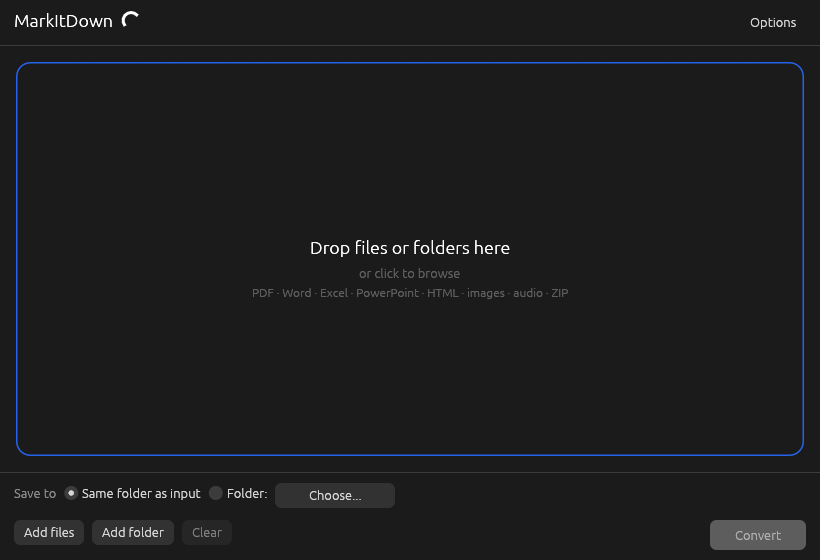
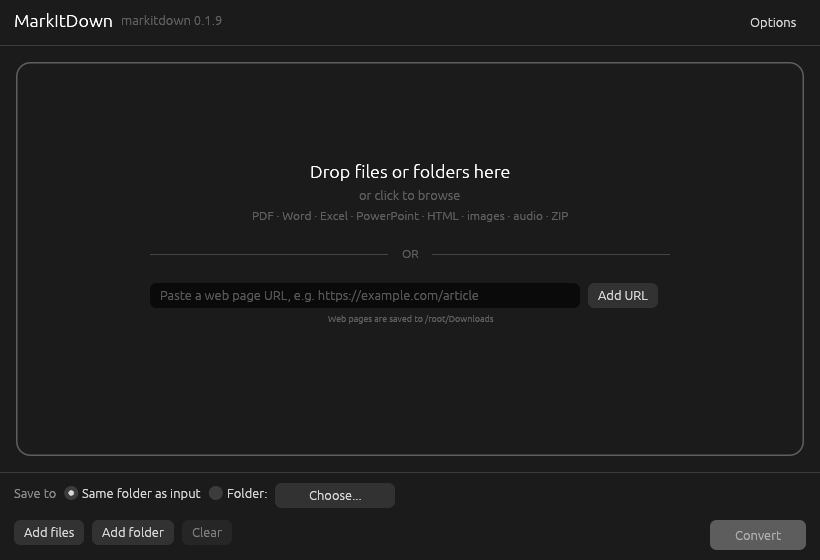
Add web page conversion by URL (1.1.0)
URL field under the drop zone with an OR divider, and at the top of the
list. Web pages are queued like files and saved as 'site - page.md' in
Downloads or the chosen output folder.

Claude-Session: https://claude.ai/code/session_012C1HCMGy58VszD4ZcjDkWS

diff --git a/src/main.rs b/src/main.rs
@@ -80,7 +80,81 @@ enum Status {
 
 struct Item {
     path: PathBuf,
+    /// Set for web pages; `path` is unused then.
+    url: Option<String>,
     status: Status,
+}
+
+impl Item {
+    fn title(&self) -> String {
+        match &self.url {
+            Some(u) => u.clone(),
+            None => self.path.file_name().map(|s| s.to_string_lossy().into_owned()).unwrap_or_default(),
+        }
+    }
+    fn subtitle(&self) -> String {
+        match &self.url {
+            Some(_) => "Web page".into(),
+            None => self.path.parent().map(|p| p.display().to_string()).unwrap_or_default(),
+        }
+    }
+}
+
+/// Accepts "example.com/page" or "https://example.com/page"; returns None if it isn't a web address.
+fn normalize_url(raw: &str) -> Option<String> {
+    let t = raw.trim().trim_matches('"').trim();
+    if t.is_empty() || t.contains(char::is_whitespace) {
+        return None;
+    }
+    let lower = t.to_lowercase();
+    let u = if lower.starts_with("http://") || lower.starts_with("https://") { t.to_string() } else { format!("https://{t}") };
+    let host = u.split("://").nth(1)?.split(['/', '?', '#']).next()?;
+    (host.contains('.') || host.starts_with("localhost")).then_some(u)
+}
+
+/// "https://en.wikipedia.org/wiki/Markdown" -> "en.wikipedia.org - Markdown"
+fn url_stem(url: &str) -> String {
+    let rest = url.split("://").nth(1).unwrap_or(url);
+    let rest = rest.split(['?', '#']).next().unwrap_or(rest);
+    let mut parts = rest.split('/').filter(|p| !p.is_empty());
+    let host = parts.next().unwrap_or("page").trim_start_matches("www.").to_string();
+    let last = parts.last().map(|seg| {
+        let seg = percent_decode(seg);
+        match seg.rsplit_once('.') {
+            Some((stem, ext)) if ext.len() <= 5 && !stem.is_empty() => stem.to_string(),
+            _ => seg,
+        }
+    });
+    let name = match last {
+        Some(l) => format!("{host} - {l}"),
+        None => host,
+    };
+    let clean: String = name.chars().map(|c| if r#"\/:*?"<>|"#.contains(c) || c.is_control() { '_' } else { c }).collect();
+    clean.chars().take(90).collect::<String>().trim().trim_end_matches('.').to_string()
+}
+
+fn percent_decode(s: &str) -> String {
+    let b = s.as_bytes();
+    let mut out = Vec::with_capacity(b.len());
+    let mut i = 0;
+    while i < b.len() {
+        if b[i] == b'%' && i + 2 < b.len() {
+            let hex = |c: u8| (c as char).to_digit(16);
+            if let (Some(h), Some(l)) = (hex(b[i + 1]), hex(b[i + 2])) {
+                out.push((h * 16 + l) as u8);
+                i += 3;
+                continue;
+            }
+        }
+        out.push(if b[i] == b'+' { b' ' } else { b[i] });
+        i += 1;
+    }
+    String::from_utf8_lossy(&out).into_owned()
+}
+
+fn downloads_dir() -> PathBuf {
+    let home = std::env::var_os("USERPROFILE").or_else(|| std::env::var_os("HOME")).map(PathBuf::from).unwrap_or_default();
+    home.join("Downloads")
 }
 
 enum Detect {
@@ -108,6 +182,8 @@ struct App {
     log: Vec<String>,
     show_log: bool,
     auto_setup_tried: bool,
+    url_input: String,
+    url_error: bool,
     ctx: egui::Context,
 }
 
@@ -138,6 +214,8 @@ impl App {
             log: Vec::new(),
             show_log: false,
             auto_setup_tried: false,
+            url_input: String::new(),
+            url_error: false,
             ctx: cc.egui_ctx.clone(),
         };
         // Files passed on the command line (e.g. "Open with" or drag onto the .exe).
@@ -231,7 +309,46 @@ impl App {
 
     fn add_file(&mut self, p: PathBuf) {
         if !self.items.iter().any(|i| i.path == p) {
-            self.items.push(Item { path: p, status: Status::Pending });
+            self.items.push(Item { path: p, url: None, status: Status::Pending });
+        }
+    }
+
+    /// Adds the URL typed in the URL field. Returns false if it isn't a valid web address.
+    fn add_url_input(&mut self) -> bool {
+        let Some(u) = normalize_url(&self.url_input) else {
+            self.url_error = !self.url_input.trim().is_empty();
+            return false;
+        };
+        if !self.items.iter().any(|i| i.url.as_deref() == Some(u.as_str())) {
+            self.items.push(Item { path: PathBuf::new(), url: Some(u), status: Status::Pending });
+        }
+        self.url_input.clear();
+        self.url_error = false;
+        true
+    }
+
+    fn url_field(&mut self, ui: &mut egui::Ui, width: f32) {
+        let busy = self.busy();
+        ui.add_enabled_ui(!busy, |ui| {
+            ui.horizontal(|ui| {
+                let r = ui.add(egui::TextEdit::singleline(&mut self.url_input).hint_text("Paste a web page URL, e.g. https://example.com/article").desired_width(width));
+                if r.changed() {
+                    self.url_error = false;
+                }
+                let enter = r.lost_focus() && ui.input(|i| i.key_pressed(egui::Key::Enter));
+                if ui.button("Add URL").clicked() || enter {
+                    self.add_url_input();
+                }
+            });
+        });
+        let target = match (&self.s.custom_output, &self.s.output_dir) {
+            (true, Some(d)) => d.display().to_string(),
+            _ => downloads_dir().display().to_string(),
+        };
+        if self.url_error {
+            ui.label(RichText::new("That doesn't look like a web address.").small().color(ERR));
+        } else {
+            ui.label(RichText::new(format!("Web pages are saved to {}", elide(&target, 60))).small().weak()).on_hover_text(target);
         }
     }
 
@@ -239,12 +356,18 @@ impl App {
         self.active > 0
     }
 
-    fn output_for(&self, input: &Path, reserved: &mut HashSet<PathBuf>) -> PathBuf {
-        let dir = match (&self.s.custom_output, &self.s.output_dir) {
-            (true, Some(d)) => d.clone(),
+    fn output_for(&self, item: &Item, reserved: &mut HashSet<PathBuf>) -> PathBuf {
+        let input = item.path.as_path();
+        let dir = match (&self.s.custom_output, &self.s.output_dir, &item.url) {
+            (true, Some(d), _) => d.clone(),
+            (_, _, Some(_)) => downloads_dir(),
             _ => input.parent().map(Path::to_path_buf).unwrap_or_default(),
         };
-        let stem = input.file_stem().map(|s| s.to_string_lossy().into_owned()).unwrap_or_else(|| "output".into());
+        let stem = match &item.url {
+            Some(u) => url_stem(u),
+            None => input.file_stem().map(|s| s.to_string_lossy().into_owned()).unwrap_or_else(|| "output".into()),
+        };
+        let stem = if stem.is_empty() { "page".to_string() } else { stem };
         let mut out = dir.join(format!("{stem}.md"));
         let mut n = 1;
         while out == input || reserved.contains(&out) || (!self.s.overwrite && out.exists()) {
@@ -271,12 +394,16 @@ impl App {
             if matches!(self.items[i].status, Status::Done(_) | Status::Running | Status::Queued) {
                 continue;
             }
-            let output = self.output_for(&self.items[i].path, &mut reserved);
+            let output = self.output_for(&self.items[i], &mut reserved);
             if let Some(d) = output.parent() {
                 let _ = std::fs::create_dir_all(d);
             }
             self.items[i].status = Status::Queued;
-            jobs.push(Job { index: i, input: self.items[i].path.clone(), output, args: args.clone() });
+            let input = match &self.items[i].url {
+                Some(u) => std::ffi::OsString::from(u),
+                None => self.items[i].path.clone().into_os_string(),
+            };
+            jobs.push(Job { index: i, input, output, args: args.clone() });
         }
         if jobs.is_empty() {
             return;
@@ -618,16 +745,32 @@ impl App {
         let resp = ui.allocate_rect(rect, egui::Sense::click());
         let stroke_col = if hovering || resp.hovered() { ACCENT } else { ui.visuals().weak_text_color() };
         ui.painter().rect(rect, CornerRadius::same(14), if hovering { ACCENT.gamma_multiply(0.08) } else { Color32::TRANSPARENT }, Stroke::new(1.5, stroke_col), egui::StrokeKind::Inside);
-        let c = rect.center();
-        ui.painter().text(c - egui::vec2(0.0, 12.0), egui::Align2::CENTER_CENTER, "Drop files or folders here", egui::FontId::proportional(18.0), ui.visuals().strong_text_color());
-        ui.painter().text(c + egui::vec2(0.0, 14.0), egui::Align2::CENTER_CENTER, "or click to browse", egui::FontId::proportional(13.0), ui.visuals().weak_text_color());
-        ui.painter().text(c + egui::vec2(0.0, 34.0), egui::Align2::CENTER_CENTER, "PDF · Word · Excel · PowerPoint · HTML · images · audio · ZIP", egui::FontId::proportional(12.0), ui.visuals().weak_text_color());
         if resp.clicked() && !self.busy() {
             self.pick_files();
         }
         if resp.hovered() {
             ui.ctx().set_cursor_icon(egui::CursorIcon::PointingHand);
         }
+
+        // Content is laid out on top of the clickable area; the URL field takes its own clicks.
+        const CONTENT_H: f32 = 196.0;
+        let inner = egui::Rect::from_center_size(rect.center(), egui::vec2((rect.width() - 40.0).min(520.0), CONTENT_H));
+        ui.scope_builder(egui::UiBuilder::new().max_rect(inner).layout(egui::Layout::top_down(egui::Align::Center)), |ui| {
+            ui.label(RichText::new("Drop files or folders here").size(18.0).color(ui.visuals().strong_text_color()));
+            ui.label(RichText::new("or click to browse").size(13.0).weak());
+            ui.label(RichText::new("PDF · Word · Excel · PowerPoint · HTML · images · audio · ZIP").size(12.0).weak());
+            ui.add_space(16.0);
+            // "OR" divider
+            let (r, _) = ui.allocate_exact_size(egui::vec2(inner.width(), 18.0), egui::Sense::hover());
+            let col = ui.visuals().weak_text_color().gamma_multiply(0.6);
+            let y = r.center().y;
+            ui.painter().line_segment([egui::pos2(r.left(), y), egui::pos2(r.center().x - 22.0, y)], Stroke::new(1.0, col));
+            ui.painter().line_segment([egui::pos2(r.center().x + 22.0, y), egui::pos2(r.right(), y)], Stroke::new(1.0, col));
+            ui.painter().text(r.center(), egui::Align2::CENTER_CENTER, "OR", egui::FontId::proportional(12.0), ui.visuals().weak_text_color());
+            ui.add_space(14.0);
+            let w = inner.width() - 90.0;
+            self.url_field(ui, w);
+        });
     }
 
     fn file_list(&mut self, ui: &mut egui::Ui, hovering: bool) {
@@ -637,16 +780,20 @@ impl App {
         let busy = self.busy();
         let mut remove = None;
         let mut retry = None;
+        ui.add_space(4.0);
+        let w = (ui.available_width() - 90.0).max(200.0);
+        self.url_field(ui, w);
+        ui.add_space(4.0);
         egui::ScrollArea::vertical().auto_shrink([false, false]).show(ui, |ui| {
             ui.add_space(4.0);
             for (i, it) in self.items.iter().enumerate() {
                 egui::Frame::new().inner_margin(egui::Margin::symmetric(10, 7)).corner_radius(8).fill(ui.visuals().faint_bg_color).show(ui, |ui| {
                     ui.set_width(ui.available_width());
                     ui.horizontal(|ui| {
-                        let name = it.path.file_name().map(|s| s.to_string_lossy().into_owned()).unwrap_or_default();
-                        let dir = it.path.parent().map(|p| p.display().to_string()).unwrap_or_default();
+                        let name = it.title();
+                        let dir = it.subtitle();
                         ui.vertical(|ui| {
-                            ui.label(RichText::new(&name).strong());
+                            ui.label(RichText::new(elide(&name, 64)).strong()).on_hover_text(&name);
                             ui.label(RichText::new(elide(&dir, 70)).small().weak()).on_hover_text(&dir);
                         });
                         ui.with_layout(egui::Layout::right_to_left(egui::Align::Center), |ui| {

diff --git a/src/runner.rs b/src/runner.rs
@@ -35,7 +35,8 @@ pub fn hidden(program: &str) -> Command {
 
 pub struct Job {
     pub index: usize,
-    pub input: PathBuf,
+    /// A file path or a web URL.
+    pub input: std::ffi::OsString,
     pub output: PathBuf,
     pub args: Vec<String>,
 }

diff --git a/README.md b/README.md
@@ -7,7 +7,7 @@
 <p align="center">
   A small, portable Windows app for converting documents to Markdown with
   <a href="https://github.com/microsoft/markitdown">Microsoft MarkItDown</a>.<br>
-  Drag files in, click Convert, get clean <code>.md</code> files. No installer, no command line.
+  Drag files in or paste a web page URL, click Convert, get clean <code>.md</code> files. No installer, no command line.
 </p>
 
 <p align="center">
@@ -72,10 +72,11 @@ Nothing is installed system-wide, nothing is added to PATH, and no admin rights 
   <img src="docs/screenshots/empty.png" width="700" alt="Empty window with drop zone">
 </p>
 
-1. **Add files.** Drag files or whole folders onto the window, click the drop zone, or use **Add files** / **Add folder**.
+1. **Add files or web pages.** Drag files or whole folders onto the window, click the drop zone, or use **Add files** / **Add folder**.
    You can also drop files onto the `.exe` itself.
-2. **Choose where to save.** By default each `.md` is saved **next to its original file**.
-   Pick **Folder:** to send everything to one folder instead.
+   **Or** paste a web page address into the URL field (under the drop zone, or at the top of the list) and press **Enter** or **Add URL**.
+2. **Choose where to save.** By default each `.md` is saved **next to its original file**, and web pages go to your
+   **Downloads** folder. Pick **Folder:** to send everything to one folder instead.
 3. **Click Convert.** Each file shows its status: Ready, Queued, a spinner while converting, then **Done** or the error.
 4. **Open the result.** Use **Open** to open the Markdown file, or **Folder** to show it in File Explorer.
    Failed files have a **Retry** button, and hovering the error shows the full message.
@@ -85,6 +86,7 @@ Click **Stop** at any time to cancel. Running conversions are stopped immediatel
 ## Features
 
 - Batch conversion with drag and drop of files and folders
+- Convert web pages by URL (saved as `site - page.md`)
 - Saves next to each input file by default, or to a folder you choose
 - Never overwrites existing files unless you allow it (uses `name (1).md` instead)
 - Converts several files in parallel (1 to 8 at a time)
@@ -136,7 +138,8 @@ Updating runs `python -m pip install --upgrade "markitdown[all]"` for the Python
 Anything MarkItDown supports, including:
 
 PDF, Word (`.docx`), PowerPoint (`.pptx`), Excel (`.xlsx`, `.xls`), HTML, CSV, JSON, XML, EPUB, ZIP archives,
-Outlook messages (`.msg`), images (EXIF metadata) and audio (speech transcription).
+Outlook messages (`.msg`), images (EXIF metadata), audio (speech transcription) and web pages by URL
+(including Wikipedia articles, YouTube video pages with transcripts, RSS feeds and Bing search results).
 
 ## Where files are stored
 

diff --git a/docs/RELEASE_NOTES.md b/docs/RELEASE_NOTES.md
@@ -1,21 +1,14 @@
-First public release of **MarkItDown GUI**, a portable Windows app for converting documents to Markdown with [Microsoft MarkItDown](https://github.com/microsoft/markitdown).
+## What's new in 1.1.0
+
+- **Convert web pages by URL.** Paste an address into the new field under the drop zone (or at the top of the list) and press Enter or **Add URL**. Web pages are added to the list like files and saved as `site - page.md`, in your Downloads folder or the output folder you chose.
 
 ## Download
 
 Download **`MarkItDown-GUI.exe`** below, put it in any folder and double-click it. No installer, no admin rights, no Python needed.
 On first launch the app sets up its own private Python and MarkItDown automatically (a few minutes, about 500 MB, once).
+Already using 1.0.0? Just replace the `.exe`; your settings and runtime folder are kept.
 
 > Windows may show a SmartScreen warning because the app is not code-signed. Click **More info**, then **Run anyway**.
-
-## Features
-
-- Drag and drop files and folders, batch conversion, parallel jobs and Stop
-- Saves next to each original file, or to a folder you choose; never overwrites unless you allow it
-- Open, Show in folder, Retry and full error details for every file
-- Every MarkItDown CLI option: embedded images, plugins, input hints, Azure Document Intelligence and Content Understanding
-- Automatic first-run setup with a private Python runtime
-- Release checks with one-click MarkItDown updates
-- Fully portable: settings and runtime stay next to the `.exe`
 
 ## Requirements
 
